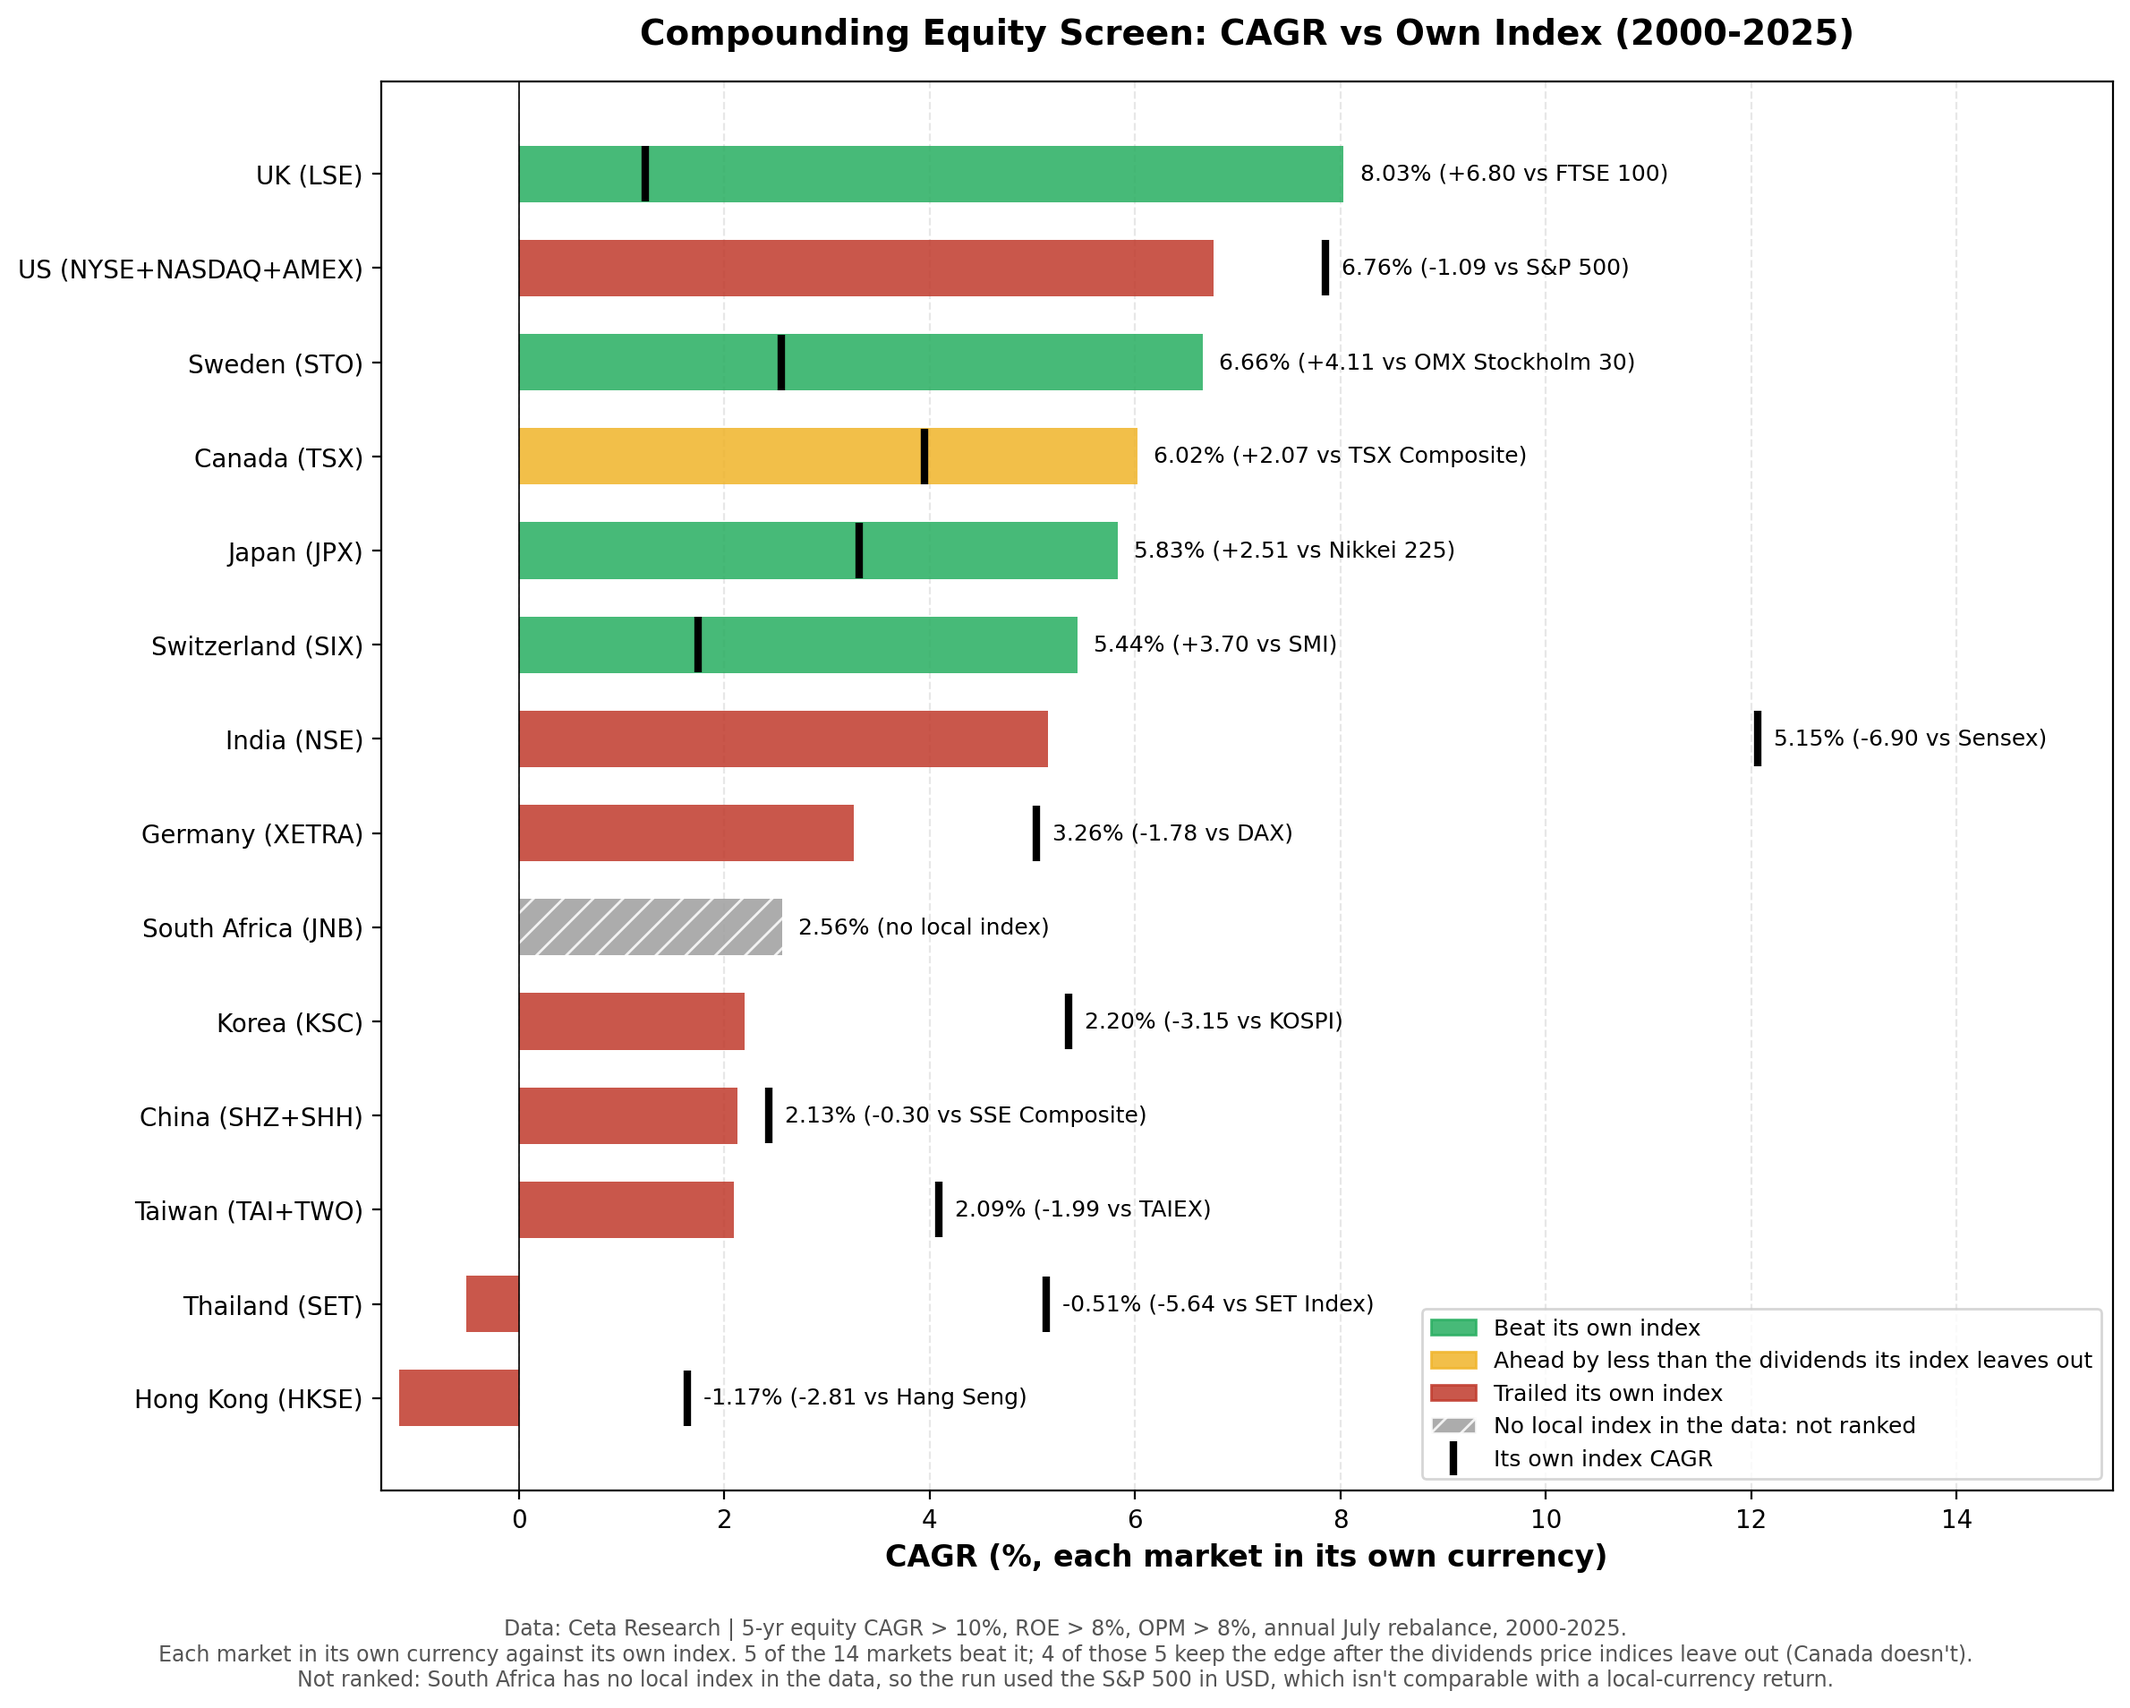
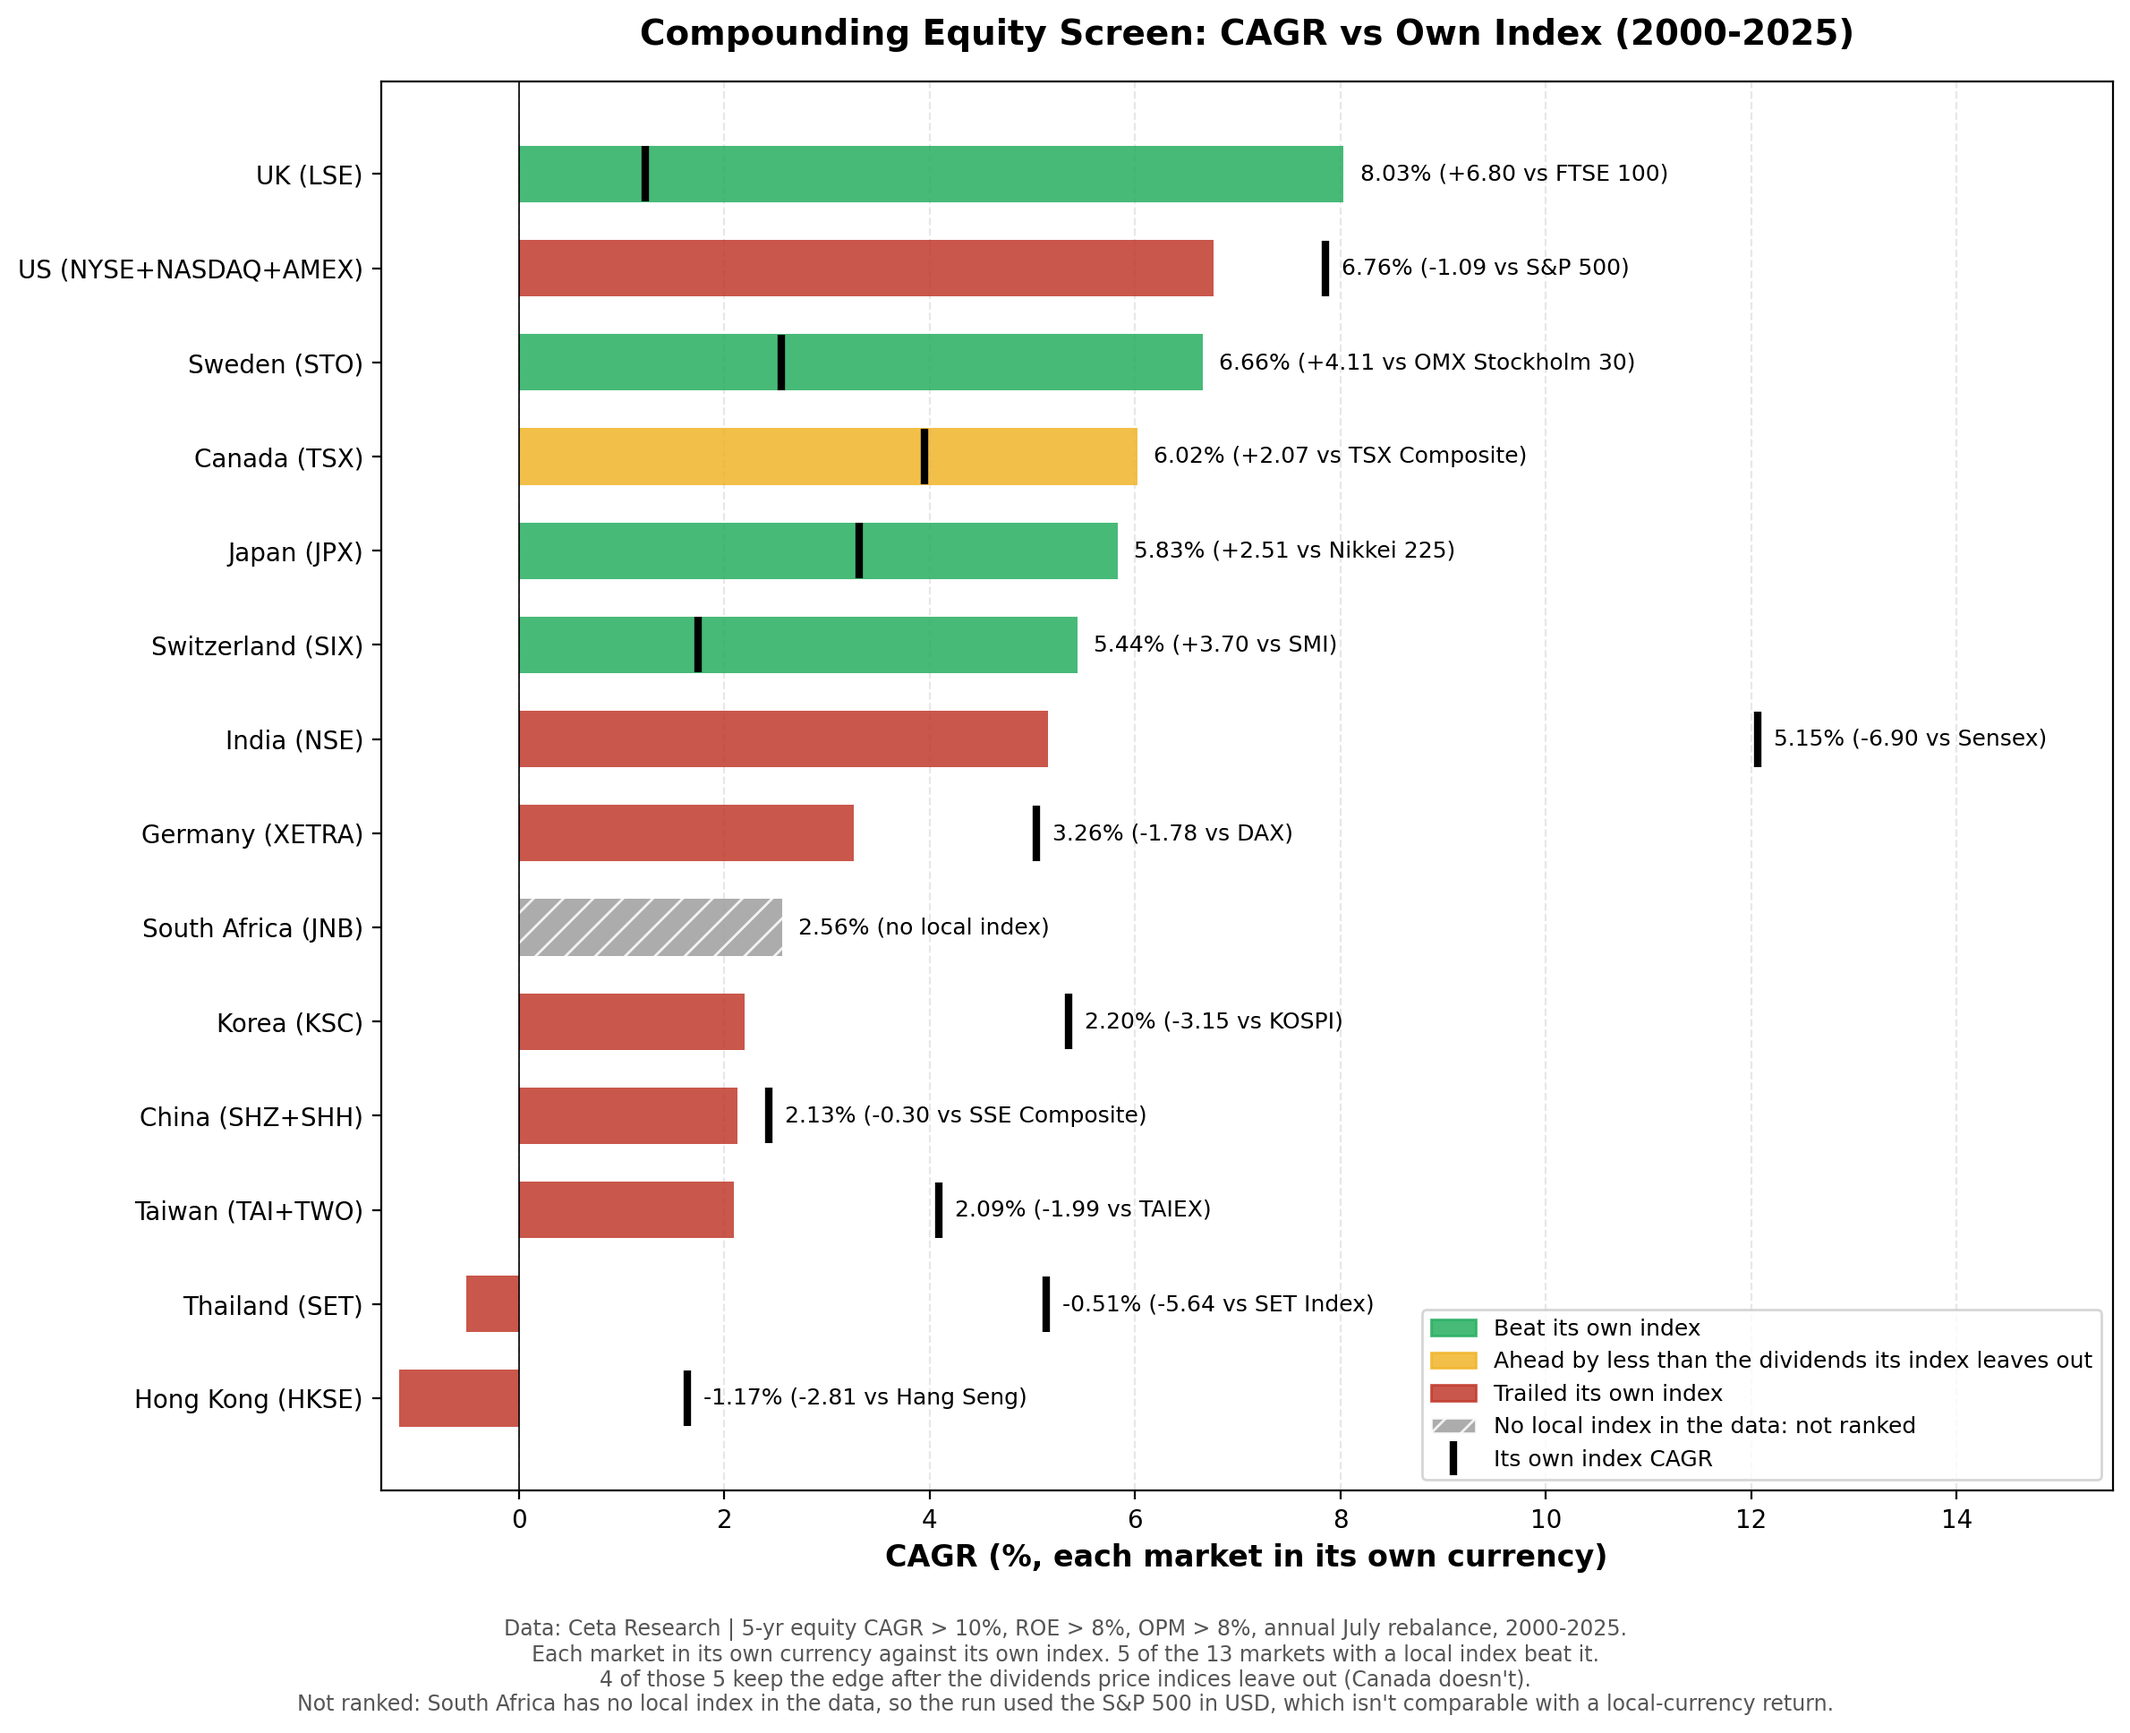
equity-growth: count the comparison over the 13 markets with a local index
South Africa has no local index, so it can't count as ahead or behind one. The footer now reads 5 of the 13 markets with a local index beat it, 4 of those 5 after dividends.

diff --git a/equity-growth/generate_charts.py b/equity-growth/generate_charts.py
@@ -186,9 +186,10 @@ def chart_comparison_cagr(filename):
         data, keys, [market_name(k) for k in keys], charts_dir / filename,
         "Compounding Equity Screen: CAGR vs Own Index (2000-2025)",
         [DATA_LINE,
-         f"Each market in its own currency against its own index. {c['beat']} of the {len(keys)} "
-         f"markets beat it; {c['clear']} of those {c['beat']} keep the edge after the dividends "
-         f"price indices leave out ({', '.join(dropped)} doesn't)."]
+         f"Each market in its own currency against its own index. {c['beat']} of the {c['ranked']} "
+         f"markets with a local index beat it.",
+         f"{c['clear']} of those {c['beat']} keep the edge after the dividends price indices leave "
+         f"out ({', '.join(dropped)} doesn't)."]
         + not_ranked_lines(data, keys, verdicts),
         not_clear_win=NOT_CLEAR_WIN)
 
